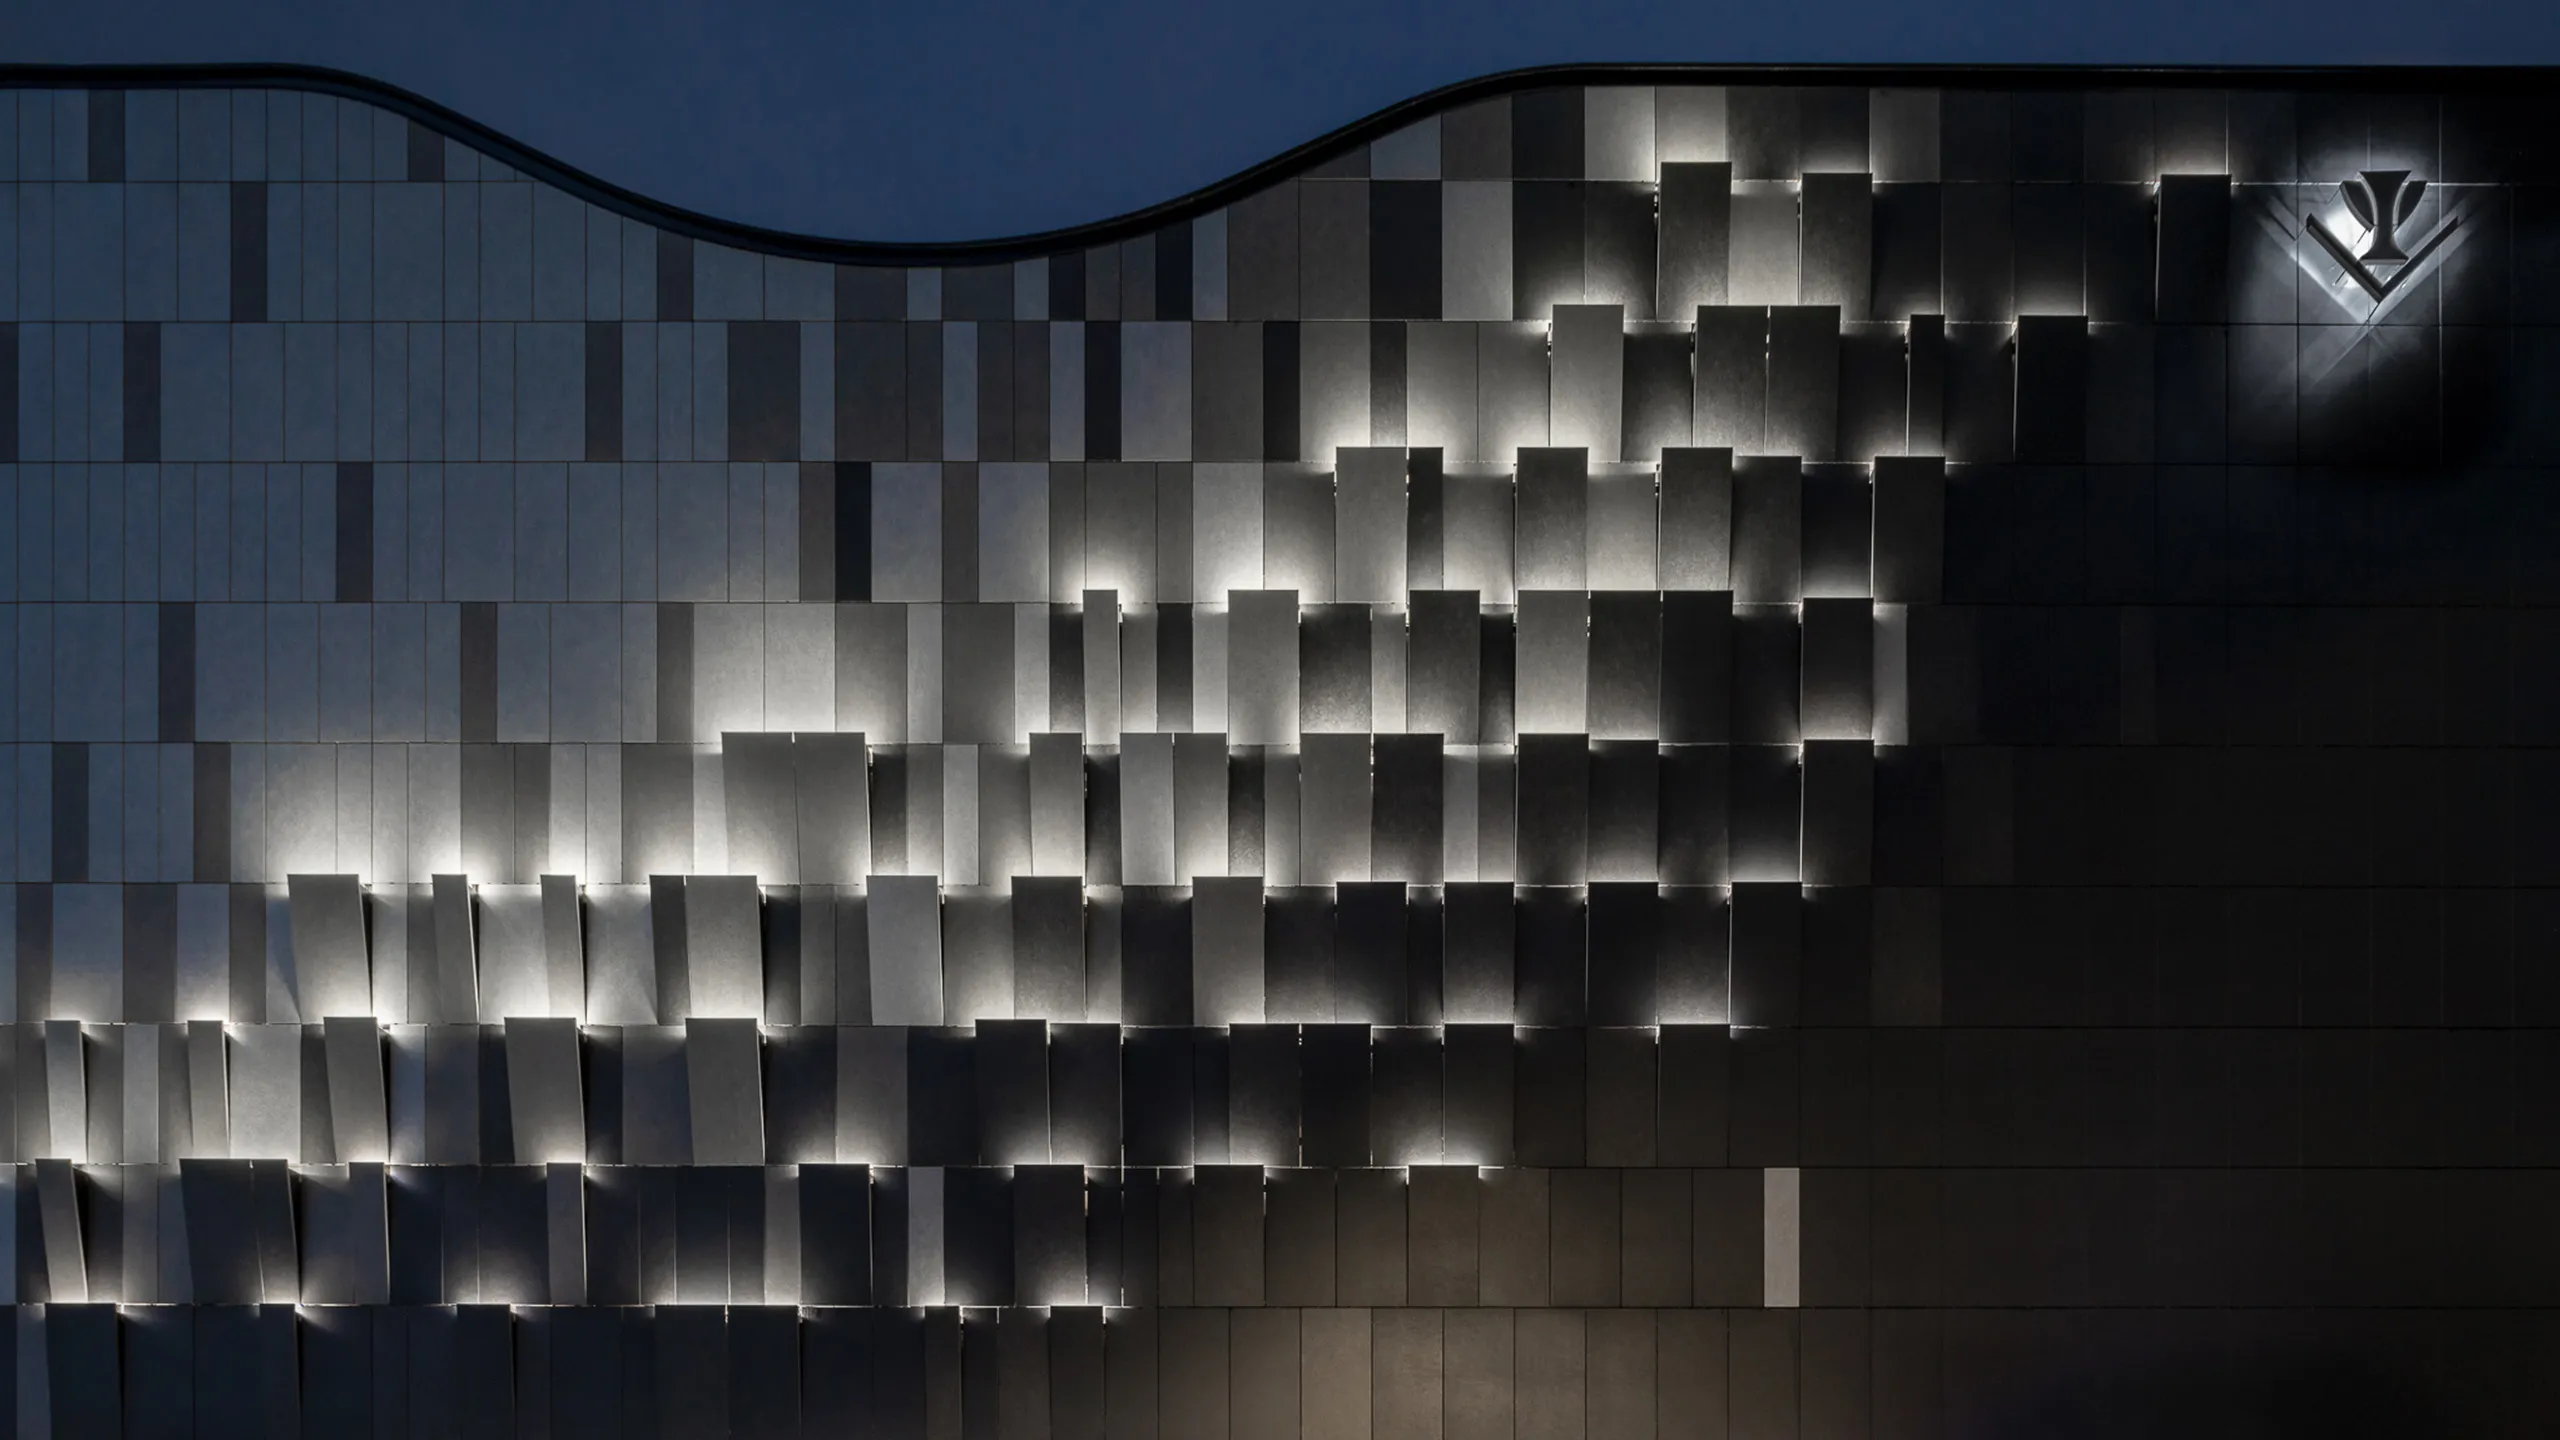
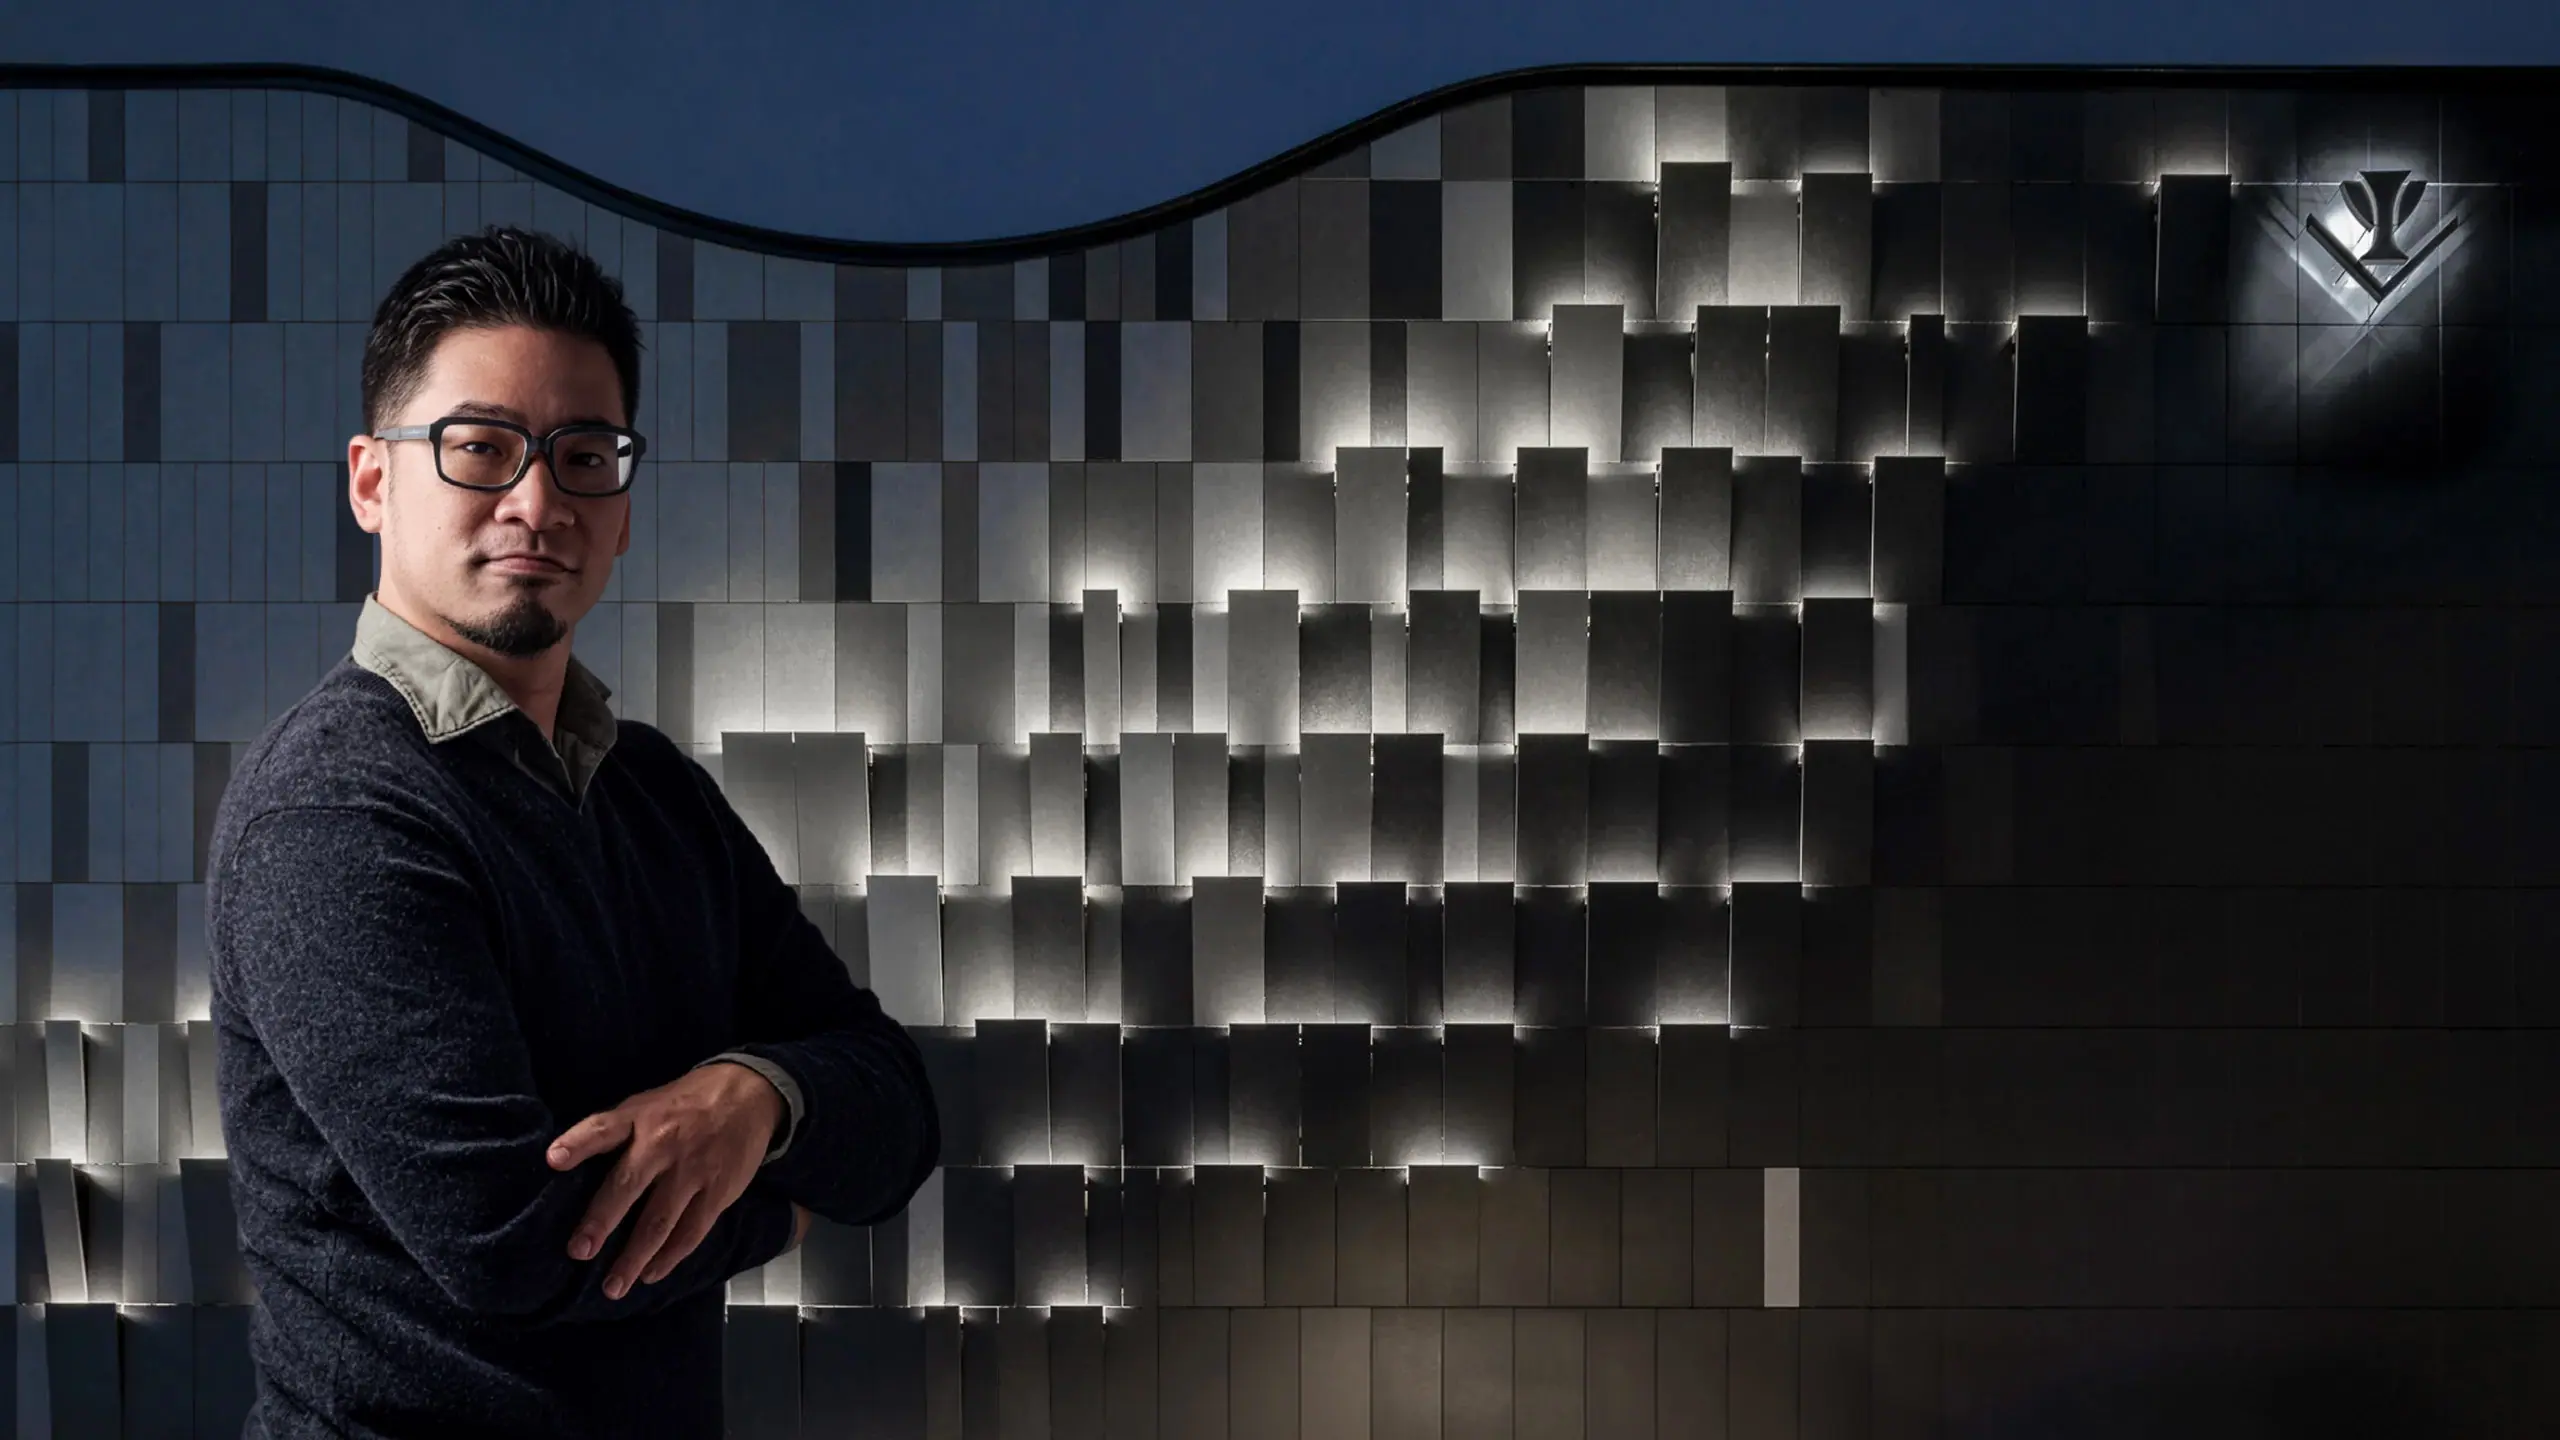
feat: 燈光美學頁面新增得獎獎項與燈光計劃 Modal 功能
- 新增 RippleButton 按鈕「得獎獎項」和「燈光計劃」
- 實作與生態專用區介紹相同樣式的 Modal
- 新增對應圖片資源

Changed region(s): [[0.0625, 0.1562, 0.375, 1.0]]

diff --git a/src/pages/LightingAestheticsPage.tsx b/src/pages/LightingAestheticsPage.tsx
@@ -1,6 +1,7 @@
 import React, { useState, useEffect } from 'react';
 import SubpageMenuBar from '../components/SubpageMenuBar';
 import CloseButton from '../components/close-button';
+import RippleButton from '../components/ripple-button';
 
 // 作品圖片資料
 const portfolioImages = [
@@ -8,6 +9,19 @@ const portfolioImages = [
   { src: '/images/b6/works/理合建設時光嶼.webp', label: '理合建設 時光嶼' },
   { src: '/images/b6/works/惠宇建設千曦.webp', label: '惠宇建設 千曦' },
   { src: '/images/b6/works/惠宇建設大其心.webp', label: '惠宇建設 大其心' },
+];
+
+// 得獎獎項圖片資料（單張）
+const awardImages = [
+  '/images/b6/awards/lighter-awards.webp',
+];
+
+// 燈光計劃圖片資料
+const lightingPlanImages = [
+  '/images/b6/lighting-plan/lighter-01.webp',
+  '/images/b6/lighting-plan/lighter-02.webp',
+  '/images/b6/lighting-plan/lighter-03.webp',
+  '/images/b6/lighting-plan/lighter-04.webp',
 ];
 
 const LightingAestheticsPage: React.FC = () => {
@@ -40,6 +54,14 @@ const LightingAestheticsPage: React.FC = () => {
     currentIndex: 0,
   });
 
+  // 得獎獎項 Modal 狀態
+  const [showAwardModal, setShowAwardModal] = useState(false);
+  const [awardIndex, setAwardIndex] = useState(0);
+
+  // 燈光計劃 Modal 狀態
+  const [showLightingPlanModal, setShowLightingPlanModal] = useState(false);
+  const [lightingPlanIndex, setLightingPlanIndex] = useState(0);
+
   // 開啟燈箱（可指定起始圖片索引）
   const openLightbox = (index: number = 0) => {
     setLightbox({ isOpen: true, currentIndex: index });
@@ -69,6 +91,42 @@ const LightingAestheticsPage: React.FC = () => {
       ...prev,
       currentIndex: (prev.currentIndex - 1 + portfolioImages.length) % portfolioImages.length,
     }));
+  };
+
+  // 得獎獎項 Modal 控制
+  const openAwardModal = () => {
+    setShowAwardModal(true);
+    setAwardIndex(0);
+  };
+
+  const closeAwardModal = () => {
+    setShowAwardModal(false);
+  };
+
+  const goToPrevAward = () => {
+    setAwardIndex((prev) => (prev > 0 ? prev - 1 : awardImages.length - 1));
+  };
+
+  const goToNextAward = () => {
+    setAwardIndex((prev) => (prev < awardImages.length - 1 ? prev + 1 : 0));
+  };
+
+  // 燈光計劃 Modal 控制
+  const openLightingPlanModal = () => {
+    setShowLightingPlanModal(true);
+    setLightingPlanIndex(0);
+  };
+
+  const closeLightingPlanModal = () => {
+    setShowLightingPlanModal(false);
+  };
+
+  const goToPrevLightingPlan = () => {
+    setLightingPlanIndex((prev) => (prev > 0 ? prev - 1 : lightingPlanImages.length - 1));
+  };
+
+  const goToNextLightingPlan = () => {
+    setLightingPlanIndex((prev) => (prev < lightingPlanImages.length - 1 ? prev + 1 : 0));
   };
 
   return (
@@ -185,7 +243,7 @@ const LightingAestheticsPage: React.FC = () => {
             >
               <span className="italic text-small">燈光設計 / </span>
               <br/>
-              偶得設計
+              偶得設計 陳怡彰
             </p>
           </div>
 
@@ -217,6 +275,22 @@ const LightingAestheticsPage: React.FC = () => {
                 <span onClick={() => openLightbox(3)} className="cursor-pointer hover:underline">惠宇建設 大其心</span>
               </span>
             </div>
+          </div>
+
+          {/* 得獎獎項 & 燈光計劃按鈕 */}
+          <div className="mt-6 flex gap-4">
+            <RippleButton onClick={openAwardModal}>
+              <span>得獎獎項</span>
+              <svg width="16" height="16" viewBox="0 0 24 24" fill="none" stroke="currentColor" strokeWidth="2" strokeLinecap="round">
+                <polyline points="9 18 15 12 9 6" />
+              </svg>
+            </RippleButton>
+            <RippleButton onClick={openLightingPlanModal}>
+              <span>燈光計劃</span>
+              <svg width="16" height="16" viewBox="0 0 24 24" fill="none" stroke="currentColor" strokeWidth="2" strokeLinecap="round">
+                <polyline points="9 18 15 12 9 6" />
+              </svg>
+            </RippleButton>
           </div>
         </div>
       </div>
@@ -395,6 +469,98 @@ const LightingAestheticsPage: React.FC = () => {
             style={{ zIndex: 10 }}
           >
             {lightbox.currentIndex + 1} / {portfolioImages.length}
+          </div>
+        </div>
+      )}
+
+      {/* 得獎獎項 Modal */}
+      {showAwardModal && (
+        <div className="fixed inset-0 z-50 bg-white animate-fade-in" style={{ top: '80px' }}>
+          <div className="w-full h-full flex items-center justify-center p-8">
+            <img
+              key={awardIndex}
+              src={awardImages[awardIndex]}
+              alt={`得獎獎項 ${awardIndex + 1}`}
+              loading="lazy"
+              decoding="async"
+              className="max-w-full max-h-full object-contain animate-fade-in"
+            />
+          </div>
+
+          <CloseButton onClick={closeAwardModal} />
+
+          {/* 箭頭導航 - 僅多張圖片時顯示 */}
+          {awardImages.length > 1 && (
+            <div className="absolute bottom-8 right-8 flex items-center gap-3 z-20">
+              <button
+                onClick={goToPrevAward}
+                className="w-12 h-12 flex items-center justify-center border border-gray-300 text-gray-500 hover:border-text-primary hover:text-text-primary transition-colors bg-white/80"
+              >
+                <svg width="24" height="24" viewBox="0 0 24 24" fill="none" stroke="currentColor" strokeWidth="2" strokeLinecap="round">
+                  <polyline points="15 18 9 12 15 6" />
+                </svg>
+              </button>
+
+              <button
+                onClick={goToNextAward}
+                className="w-12 h-12 flex items-center justify-center border border-gray-300 text-gray-500 hover:border-text-primary hover:text-text-primary transition-colors bg-white/80"
+              >
+                <svg width="24" height="24" viewBox="0 0 24 24" fill="none" stroke="currentColor" strokeWidth="2" strokeLinecap="round">
+                  <polyline points="9 18 15 12 9 6" />
+                </svg>
+              </button>
+            </div>
+          )}
+
+          {/* 頁碼指示 - 僅多張圖片時顯示 */}
+          {awardImages.length > 1 && (
+            <div className="absolute bottom-8 left-8 text-body text-gray-600 z-20">
+              {awardIndex + 1} / {awardImages.length}
+            </div>
+          )}
+        </div>
+      )}
+
+      {/* 燈光計劃 Modal */}
+      {showLightingPlanModal && (
+        <div className="fixed inset-0 z-50 bg-white animate-fade-in" style={{ top: '80px' }}>
+          <div className="w-full h-full flex items-center justify-center p-8">
+            <img
+              key={lightingPlanIndex}
+              src={lightingPlanImages[lightingPlanIndex]}
+              alt={`燈光計劃 ${lightingPlanIndex + 1}`}
+              loading="lazy"
+              decoding="async"
+              className="max-w-full max-h-full object-contain animate-fade-in"
+            />
+          </div>
+
+          <CloseButton onClick={closeLightingPlanModal} />
+
+          {/* 箭頭導航 - 固定在右下角 */}
+          <div className="absolute bottom-8 right-8 flex items-center gap-3 z-20">
+            <button
+              onClick={goToPrevLightingPlan}
+              className="w-12 h-12 flex items-center justify-center border border-gray-300 text-gray-500 hover:border-text-primary hover:text-text-primary transition-colors bg-white/80"
+            >
+              <svg width="24" height="24" viewBox="0 0 24 24" fill="none" stroke="currentColor" strokeWidth="2" strokeLinecap="round">
+                <polyline points="15 18 9 12 15 6" />
+              </svg>
+            </button>
+
+            <button
+              onClick={goToNextLightingPlan}
+              className="w-12 h-12 flex items-center justify-center border border-gray-300 text-gray-500 hover:border-text-primary hover:text-text-primary transition-colors bg-white/80"
+            >
+              <svg width="24" height="24" viewBox="0 0 24 24" fill="none" stroke="currentColor" strokeWidth="2" strokeLinecap="round">
+                <polyline points="9 18 15 12 9 6" />
+              </svg>
+            </button>
+          </div>
+
+          {/* 頁碼指示 - 左下角 */}
+          <div className="absolute bottom-8 left-8 text-body text-gray-600 z-20">
+            {lightingPlanIndex + 1} / {lightingPlanImages.length}
           </div>
         </div>
       )}

diff --git a/src/pages/WindowBrandPage/index.tsx b/src/pages/WindowBrandPage/index.tsx
@@ -8,21 +8,21 @@ interface ProjectPhoto {
 }
 
 const ykkProjects: ProjectPhoto[] = [
-  { id: '1', image: '/images/window-flooring/ykk/projects/國家美術館.webp', name: '國家美術館' },
-  { id: '2', image: '/images/window-flooring/ykk/projects/東騰信義.webp', name: '東騰信義' },
-  { id: '3', image: '/images/window-flooring/ykk/projects/森林摩天41.webp', name: '森林摩天41' },
-  { id: '4', image: '/images/window-flooring/ykk/projects/若山三期若蒔山.webp', name: '若山三期若蒔山' },
-  { id: '5', image: '/images/window-flooring/ykk/projects/鑫輝昕奕居.webp', name: '鑫輝昕奕居' },
+  { id: '1', image: '/images/window-flooring/ykk/projects/國家美術館.jpg', name: '國家美術館' },
+  { id: '2', image: '/images/window-flooring/ykk/projects/東騰信義.jpg', name: '東騰信義' },
+  { id: '3', image: '/images/window-flooring/ykk/projects/森林摩天41.jpg', name: '森林摩天41' },
+  { id: '4', image: '/images/window-flooring/ykk/projects/若山三期若蒔山.jpg', name: '若山三期若蒔山' },
+  { id: '5', image: '/images/window-flooring/ykk/projects/鑫輝昕奕居.jpg', name: '鑫輝昕奕居' },
 ];
 
 // YKK 更多介紹輪播圖片
 const ykkGalleryImages = [
-  '/images/window-flooring/ykk/gallery/img_001.webp',
-  '/images/window-flooring/ykk/gallery/img_002.webp',
-  '/images/window-flooring/ykk/gallery/img_003.webp',
-  '/images/window-flooring/ykk/gallery/img_004.webp',
-  '/images/window-flooring/ykk/gallery/img_005.webp',
-  '/images/window-flooring/ykk/gallery/img_006.webp',
+  '/images/window-flooring/ykk/gallery/img_001.jpg',
+  '/images/window-flooring/ykk/gallery/img_002.jpg',
+  '/images/window-flooring/ykk/gallery/img_003.jpg',
+  '/images/window-flooring/ykk/gallery/img_004.jpg',
+  '/images/window-flooring/ykk/gallery/img_005.jpg',
+  '/images/window-flooring/ykk/gallery/img_006.jpg',
 ];
 
 const WindowBrandPage: React.FC = () => {
@@ -107,7 +107,7 @@ const WindowBrandPage: React.FC = () => {
                 <p className="text-micro">＊通風門的水密性能為750Pa、耐風壓性能為2800Pa、隔音性能為25dB</p>
               </div>
               <img
-                src="/images/window-flooring/ykk/performance.webp"
+                src="/images/window-flooring/ykk/performance.jpg"
                 alt="基本性能"
                 loading="lazy"
                 decoding="async"
